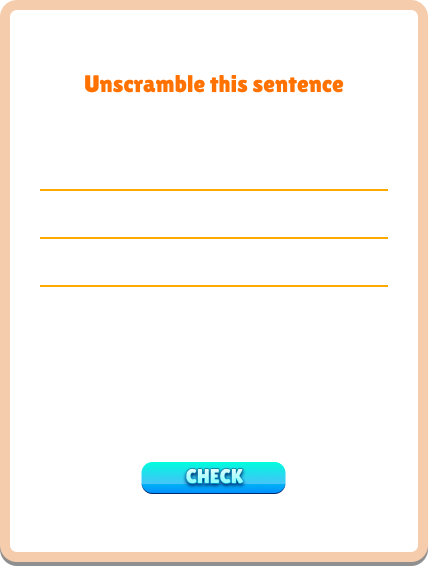
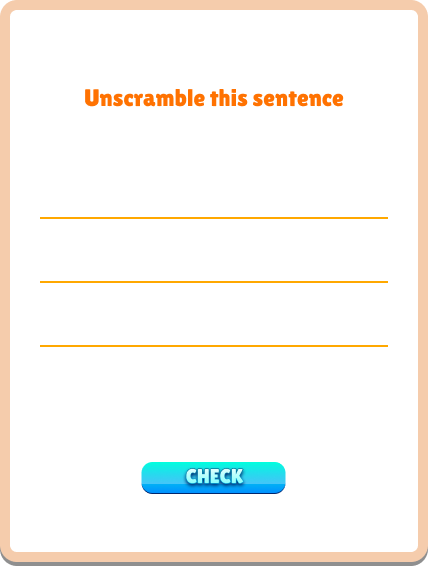
Changed the unscramble png to a bigger one, modified styling and format of word tiles

diff --git a/frontend/src/components/Unscramble.css b/frontend/src/components/Unscramble.css
@@ -27,7 +27,7 @@
 
 .word-bank-words {
   position: absolute;
-  top: 75px;
+  top: 70px;
   left: 25px;
   width: 310px;
   display: flex;
@@ -36,47 +36,41 @@
   z-index: 2;
 }
 
-.word {
-  background-color: #fff;
-  border: 2px solid #01B4BC;
-  border-radius: 5px;
-  padding: 5px 10px;
-  font-family: 'Lilita One', sans-serif;
-  font-size: 18px;
-  color: #A35B38;
+.word, .placed {
+  color: #FF7201;
+  text-align: center;
+  font-family: 'Monda';
+  font-size: 16px;
+  font-style: normal;
+  line-height: 40px;
+  padding: 0px 15px;
+  font-weight: 600;
   cursor: pointer;
-  margin: 5px;
   display: inline-block;
+  border-radius: 7px;
+  border: 1.5px solid #FFA800;
+  background: #FFF;
+  box-shadow: 0 2px 2px 0 #FFB672;
 }
 
 .placed {
   position: absolute;
-  font-size: 18px;
-  color: #A35B38;
-  padding: 5px 10px;
-  border: 2px solid #01B4BC;
-  border-radius: 5px;
-  box-sizing: border-box;
-  /* Adjust these based on unscramble-image.png line positions */
-   /* top line: bottom: 35px left: 70px. */
-   /* middle line: top: 0px. Bottom line: Top: 40px./
-  /* end of line: left 280 */
 }
 
 /* Line-specific placements with dynamic spacing */
 .line-1 .placed {
-  top: 16px;
-  left: calc(30px + var(--cumulative-width, 0px));
+  top: 35px;
+  left: calc(15px + var(--cumulative-width, 0px));
 }
 
 .line-2 .placed {
-  top: 55px;
-  left: calc(30px + var(--cumulative-width, 0px));
+  top: 87px;
+  left: calc(15px + var(--cumulative-width, 0px));
 }
 
 .line-3 .placed {
-  top: 95px;
-  left: calc(30px + var(--cumulative-width, 0px));
+  top: 140px;
+  left: calc(15px + var(--cumulative-width, 0px));
 }
 /* Limit to 3 words per line, adjust left to end at 280px */
 .lines-container {

diff --git a/frontend/src/pages/GamePage.css b/frontend/src/pages/GamePage.css
@@ -131,7 +131,7 @@
     font-size: 16px;
     font-style: normal;
     font-weight: 700;
-    line-height: 20px;
+    line-height: 27px;
     color: #FFA800; /* + Dark gray for contrast */
     margin: 5px 0; /* + Spacing between definition and example */
     text-align: left; /* + Left-align for readability */
@@ -145,7 +145,6 @@
   font-size: 17px;
   font-style: normal;
   font-weight: 400;
-  line-height: 35px;
 }
 
 /* + New styles for example */
@@ -154,7 +153,7 @@
   font-size: 16px;
   font-style: bold;
   font-weight: 700;
-  line-height: 20px;
+  line-height: 27px;
   color: #FFA800; /* + Dark gray for contrast */
   margin: 5px 0; /* + Spacing between definition and example */
   text-align: left; /* + Left-align for readability */
@@ -168,7 +167,6 @@
   font-size: 17px;
   font-style: normal;
   font-weight: 400;
-  line-height: 35px;
 }
 
 /* + New styles for error message */
@@ -189,7 +187,7 @@
 }
 
 .next-button {
-  margin-top: 10px;
+  margin-top: 7px;
   position: absolute;
   background-color: transparent;
   left: 90px;
